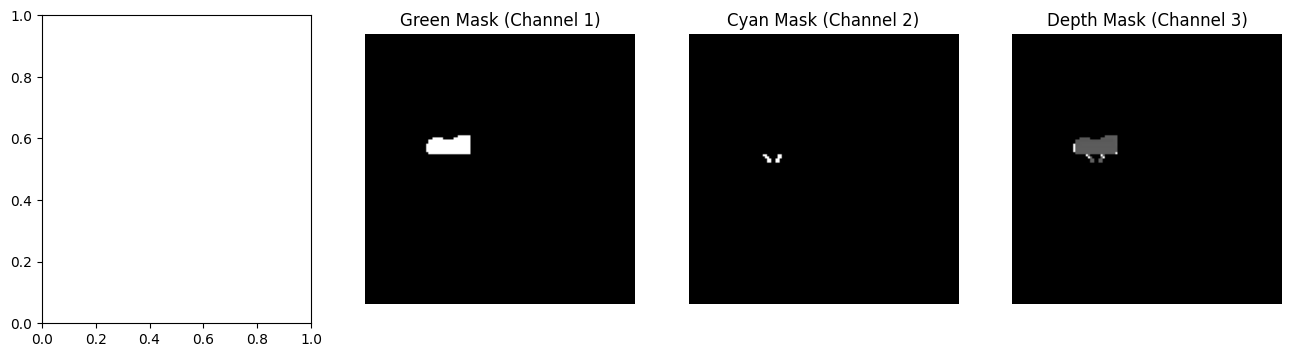
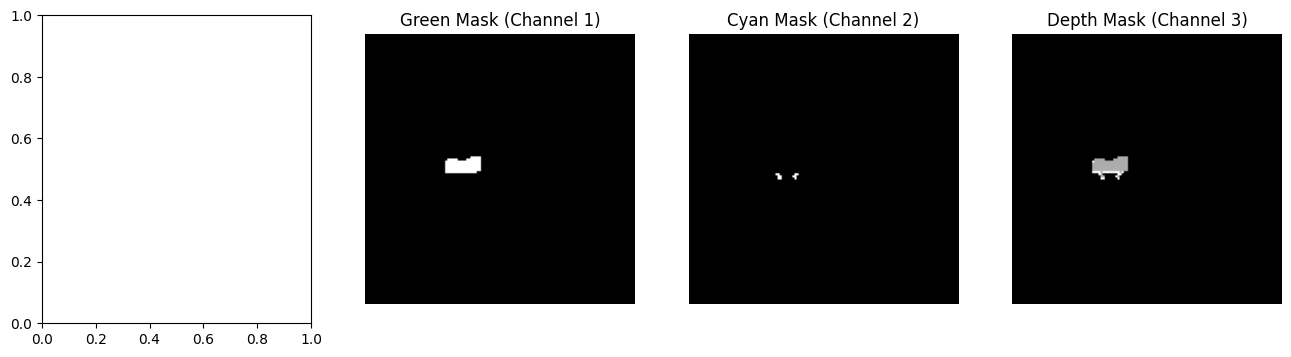
fixed camera modality bug

Changed region(s): [[0.8056, 0.3697, 0.8985, 0.493], [0.3098, 0.3697, 0.3718, 0.493], [0.5887, 0.4314, 0.6197, 0.4622]]

diff --git a/datasets.py b/datasets.py
@@ -75,11 +75,16 @@ class BaseDataset(Dataset):
             # Check for the '{camera}_maskdepth' subdirectory in the Zarr dataset
             root = zarr.open(zarr_path, mode='a')  # Open in append mode to modify if needed
             
-            for camera in cameras:
-                camera_name = camera.split('_')[0]
+            for i in range(len(cameras)):
+                camera_name = cameras[i].split('_')[0]
                 camera_maskdepth_path = f'data/demo_0/obs/{camera_name}_maskdepth'
                 eef_pos_path = f'data/demo_0/obs/robot0_eef_pos_{camera_name}'
                 eef_pos_disentangled_path = f'data/demo_0/obs/robot0_eef_pos_{camera_name}_disentangled'
+                
+                if self.data_modality == 'color_mask_depth':
+                    cameras[i] = cameras[i].split('_')[0] + '_maskdepth'
+                elif 'cropped_rgbd' in self.data_modality:
+                    cameras[i] = cameras[i].split('_')[0] + '_rgbdcrop'
 
                 # If any of the required data paths are missing, preprocess them
                 if camera_maskdepth_path not in root:
@@ -189,7 +194,7 @@ class BaseDataset(Dataset):
                             if self.data_modality == 'color_mask_depth':
                                 camera = camera.split('_')[0] + '_maskdepth'
                             elif 'cropped_rgbd' in self.data_modality:
-                                camera == camera.split('_')[0] + '_croppedrgbd'
+                                camera = camera.split('_')[0] + '_rgbdcrop'
                             if camera in data['obs'].keys():
                                 futures.append(executor.submit(process_demo, demo, data, task, camera))
                             else:

diff --git a/train.py b/train.py
@@ -13,11 +13,11 @@ if oscar:
     b = 16
     rp = '/users/ysong135/Documents/action_extractor/results'
 else:
-    dp = '/home/yilong/Documents/ae_data/random_processing/obs_rel_color2'
+    dp = '/home/yilong/Documents/ae_data/random_processing/obs_rel_color'
     # dp = '/home/yilong/Documents/policy_data/lift/obs'
     # vp = '/home/yilong/Documents/ae_data/abs'
     # vp = '/home/yilong/Documents/ae_data/random_processing/obs_rel_color2'
-    vp = '/home/yilong/Documents/ae_data/random_processing/obs_rel_color_val2'
+    vp = '/home/yilong/Documents/ae_data/random_processing/obs_rel_color_val'
     # vp = '/home/yilong/Documents/policy_data/lift/obs'
     b = 16
     rp = '/home/yilong/Documents/action_extractor/results'
